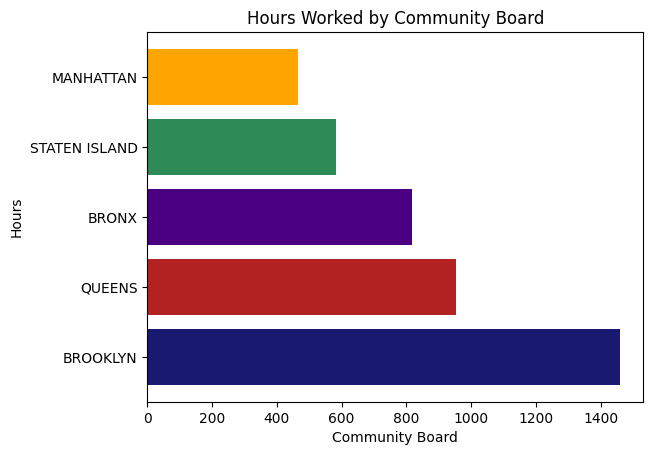
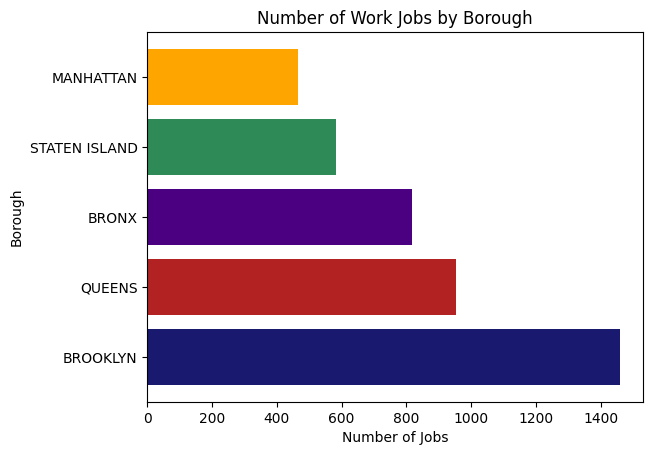
fixe bar chart titles

Changed region(s): [[0.3675, 0.0, 0.827, 0.0615], [0.5207, 0.9538, 0.7044, 0.9846], [0.0, 0.4308, 0.0306, 0.5538]]

diff --git a/docs/unit3/05_pandas_part2/pandas2_hw.md b/docs/unit3/05_pandas_part2/pandas2_hw.md
@@ -103,8 +103,7 @@ number of work jobs by borough.
 
     When you are done, the graph should look something like this:
 
-![updated graph](https://github.com/user-attachments/assets/6ed74a94-4f93-4512-af24-9ab464ba02f4)
-
+![hw_image02_barh.png](images/hw_image02_barh.png)
 
 ## Part 3 - Pavement Ratings
 
